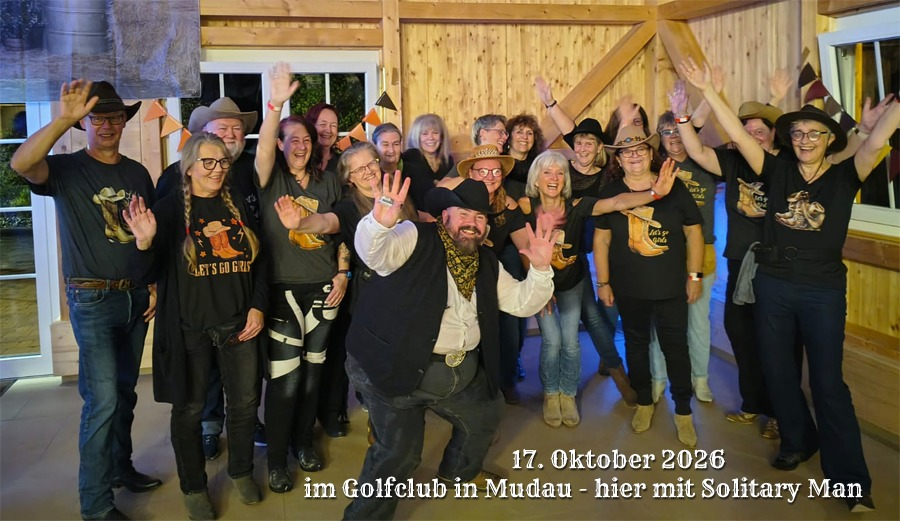
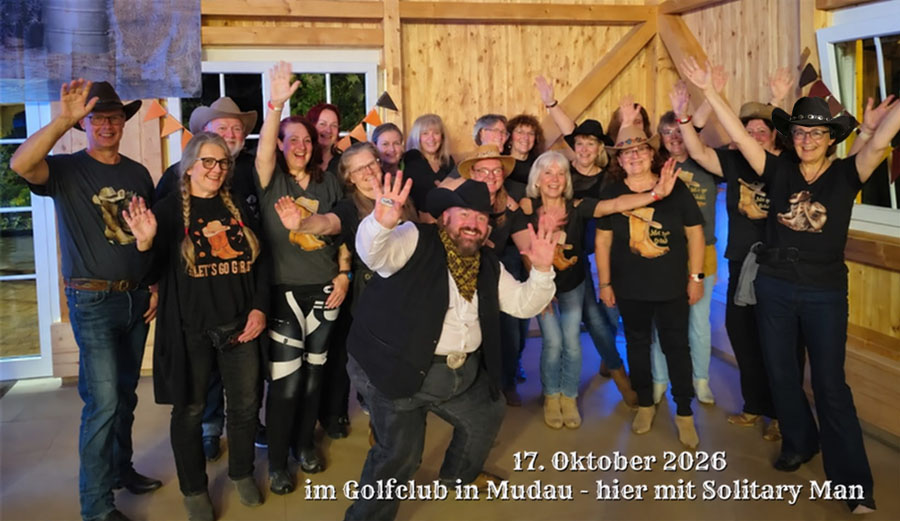
interne Seite ersetzt

diff --git a/app/intern/page.tsx b/app/intern/page.tsx
@@ -51,16 +51,29 @@ export default async function InternPage() {
               Willkommen im internen Bereich!
             </h2>
             <p className="text-[#78350f] leading-relaxed">
-              Hier findest du interne Informationen, Termine und Materialien,
-              die nur für Mitglieder bestimmt sind. Du kannst diesen Bereich
-              bearbeiten, um Inhalte hinzuzufügen.
+              Hier findest du interne Informationen, Termine und Materialien, die nur für Mitglieder bestimmt sind. 
             </p>
           </div>
-
+<div className="max-w-4xl mx-auto">
+          {/* Welcome Section */}
+          <div className="bg-[#fff9f2] rounded-2xl border-3 border-[#d4a574] p-8 mb-8">
+            <h3 className="font-serif text-xl text-[#3d2314]">Tanzbeschreibungen </h3>
+             <p className="text-[#78350f] mb-4">
+                nur für unsere Mitglieder - in verständlichen Schritten erklärt
+              </p>
+                <span> <a
+                      href="https://www.dropbox.com/scl/fi/rza27po4jpkz42gocyal1/_Alle-T-nze.pdf?rlkey=n1qtc2x7z6g2e77s8wlfr6isi&dl=0" 
+                      target="_blank"
+                      rel="noopener noreferrer"
+                      className="inline-flex items-center gap-2 text-[#b45309] hover:text-[#78350f] font-medium text-sm"
+                    >Datei mit allen Tanzbeschreibungen</a>
+                    
+    </span>
+          </div></div>
           {/* Example Content Sections */}
-          <div className="grid grid-cols-1 md:grid-cols-2 gap-6">
+           {/* <div className="grid grid-cols-1 md:grid-cols-2 gap-6">*/}
             {/* Termine Card */}
-            <div className="bg-[#fff9f2] rounded-2xl border-3 border-[#d4a574] p-6 hover:border-[#b45309] transition-colors">
+             {/* <div className="bg-[#fff9f2] rounded-2xl border-3 border-[#d4a574] p-6 hover:border-[#b45309] transition-colors">
               <div className="flex items-center gap-3 mb-4">
                 <div className="w-12 h-12 bg-[#15803d] rounded-xl flex items-center justify-center">
                   <Calendar className="w-6 h-6 text-white" />
@@ -77,10 +90,11 @@ export default async function InternPage() {
                   Platzhalter für Bilder
                 </span>
               </div>
-            </div>
+            </div>*/}
 
             {/* Bilder Card */}
-            <div className="bg-[#fff9f2] rounded-2xl border-3 border-[#d4a574] p-6 hover:border-[#b45309] transition-colors">
+             {/* 
+             <div className="bg-[#fff9f2] rounded-2xl border-3 border-[#d4a574] p-6 hover:border-[#b45309] transition-colors">
               <div className="flex items-center gap-3 mb-4">
                 <div className="w-12 h-12 bg-[#1e40af] rounded-xl flex items-center justify-center">
                   <ImageIcon className="w-6 h-6 text-white" />
@@ -99,34 +113,33 @@ export default async function InternPage() {
                 </span>
               </div>
             </div>
-
-            {/* Dokumente Card */}
-            <div className="bg-[#fff9f2] rounded-2xl border-3 border-[#d4a574] p-6 hover:border-[#b45309] transition-colors">
+*/}
+           {/* Dokumente Card */}
+           {/*  <div className="bg-[#fff9f2] rounded-2xl border-3 border-[#d4a574] p-6 hover:border-[#b45309] transition-colors">
               <div className="flex items-center gap-3 mb-4">
                 <div className="w-12 h-12 bg-[#b45309] rounded-xl flex items-center justify-center">
                   <FileText className="w-6 h-6 text-white" />
                 </div>
                 <h3 className="font-serif text-xl text-[#3d2314]">
-                  Dokumente
+                  Tanzbeschreibungen 
                 </h3>
               </div>
               <p className="text-[#78350f] mb-4">
-                Hier kannst du wichtige Dokumente für Mitglieder hochladen.
+                nur für unsere Mitglieder - in verständlichen Schritten erklärt
               </p>
-              <ul className="space-y-2 text-[#78350f] text-sm">
-                <li className="flex items-center gap-2">
+             
                   <span className="w-2 h-2 bg-[#b45309] rounded-full" />
-                  <span>Beispiel: Protokolle</span>
-                </li>
-                <li className="flex items-center gap-2">
-                  <span className="w-2 h-2 bg-[#b45309] rounded-full" />
-                  <span>Beispiel: Anleitungen</span>
-                </li>
-              </ul>
-            </div>
-
+                  <span> <a
+                      href="https://www.dropbox.com/scl/fi/rza27po4jpkz42gocyal1/_Alle-T-nze.pdf?rlkey=n1qtc2x7z6g2e77s8wlfr6isi&dl=0" 
+                      target="_blank"
+                      rel="noopener noreferrer"
+                      className="inline-flex items-center gap-2 text-[#b45309] hover:text-[#78350f] font-medium text-sm"
+                    >Datei mit allen Tanzbeschreibungen</a>
+                </span>
+                         </div>
+*/}
             {/* Notizen Card */}
-            <div className="bg-[#fff9f2] rounded-2xl border-3 border-[#d4a574] p-6 hover:border-[#b45309] transition-colors">
+          {/*  <div className="bg-[#fff9f2] rounded-2xl border-3 border-[#d4a574] p-6 hover:border-[#b45309] transition-colors">
               <div className="flex items-center gap-3 mb-4">
                 <div className="w-12 h-12 bg-[#dc2626] rounded-xl flex items-center justify-center">
                   <FileText className="w-6 h-6 text-white" />
@@ -148,7 +161,7 @@ export default async function InternPage() {
               </div>
             </div>
           </div>
-
+*/}
           {/* Back to Home */}
           <div className="mt-8 text-center">
             <Link
